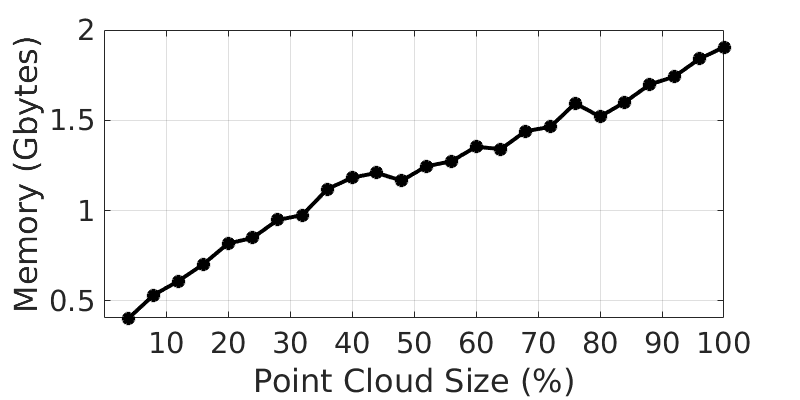
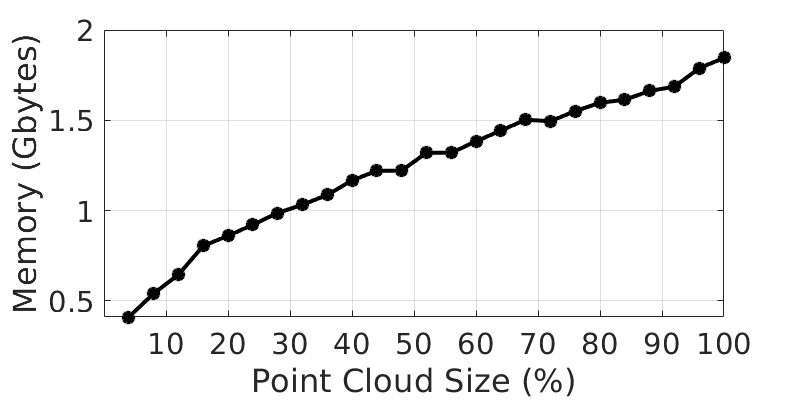
data done for AAAI

diff --git a/Matlab/memory_plot.m b/Matlab/memory_plot.m
@@ -2,32 +2,60 @@
 
 clear, clc
 
-main_dir = '/home/dtc/MyGit/dtc-scannet-sparseconvnet/Result/alienware/scannet_m8_rep1_residualFalse-000000470/Backup/';
+model_name = 'scannet_m16_rep2_residualTrue-000000650';
+
+% avg with memory from pmserver
+f_mem = {
+    'result_memory_1.csv';
+    'result_memory_2.csv';
+    'result_memory_3.csv';
+    'result_memory_4.csv';
+};
+
+main_dir = strcat('../Result/alienware/', model_name, '/Backup/');
 f_random = strcat(main_dir, 'random_result_memory.csv');
 f_grid = strcat(main_dir, 'grid_result_memory.csv');
 f_hierarchy = strcat(main_dir, 'hierarchy_result_memory.csv');
 
 titleName = split(main_dir, '/');
-titleName = titleName{8};
+titleName = titleName{4};
 
 data_random = csvread(f_random, 1, 0);
 keep_ratio_random = data_random(:, 1);
 time_random = data_random(:, 2);
 flop_random = data_random(:, 3);
 memory_random = data_random(:, 4);
+for i = 1:length(f_mem)
+    f_mem_file_name = strcat('../Result/pmserver/', model_name, '/Backup/random_', f_mem{i});
+    data_memory = csvread(f_mem_file_name, 1, 0);
+    memory_random = memory_random + data_memory(:, 4);
+end
+memory_random = memory_random / (1+length(f_mem));
+
 
 data_grid = csvread(f_grid, 1, 0);
 keep_ratio_grid = data_grid(:, 1);
 time_grid = data_grid(:, 2);
 flop_grid = data_grid(:, 3);
 memory_grid = data_grid(:, 4);
+for i = 1:length(f_mem)
+    f_mem_file_name = strcat('../Result/pmserver/', model_name, '/Backup/grid_', f_mem{i});
+    data_memory = csvread(f_mem_file_name, 1, 0);
+    memory_grid = memory_grid + data_memory(:, 4);
+end
+memory_grid = memory_grid / (1+length(f_mem));
 
 data_hierarchy = csvread(f_hierarchy, 1, 0);
 keep_ratio_hierarchy = data_hierarchy(:, 1);
 time_hierarchy = data_hierarchy(:, 2);
 flop_hierarchy = data_hierarchy(:, 3);
 memory_hierarchy = data_hierarchy(:, 4);
-
+for i = 1:length(f_mem)
+    f_mem_file_name = strcat('../Result/pmserver/', model_name, '/Backup/hierarchy_', f_mem{i});
+    data_memory = csvread(f_mem_file_name, 1, 0);
+    memory_hierarchy = memory_hierarchy + data_memory(:, 4);
+end
+memory_hierarchy = memory_hierarchy / (1+length(f_mem));
 
 figure(1), clf, hold on
 set(gcf, 'position', [200, 800, 1200, 800])
@@ -44,16 +72,16 @@ grid on
 
 figure(2), clf, hold on
 set(gcf, 'position', [200, 800, 1200, 800])
-fitobject = fit(keep_ratio_random, memory_random, 'poly2');
-memory_fit = feval(fitobject, keep_ratio_random);
-fprintf('Memory (MB): %.2f\n', memory_fit(end))
+% fitobject = fit(keep_ratio_random, memory_random, 'poly2');
+% memory_fit = feval(fitobject, keep_ratio_random);
+fprintf('Random Memory (MB): %.2f\n', memory_random(end))
 
 plot(keep_ratio_random, memory_random, '-*', 'linewidth', 3)
 plot(keep_ratio_grid, memory_grid, '-o', 'linewidth', 3)
 plot(keep_ratio_hierarchy, memory_hierarchy, '-s', 'linewidth', 3)
-plot(keep_ratio_random, memory_fit, '-*', 'linewidth', 4)
+% plot(keep_ratio_random, memory_fit, '-*', 'linewidth', 4)
 set(gca, 'fontsize', 22)
 ylabel('Memory')
-legend('random', 'grid', 'hierarchy', 'Fitted Line', 'location', 'southeast')
+legend('random', 'grid', 'hierarchy', 'location', 'southeast')
 title(titleName, 'Interpreter', 'none')
 grid on

diff --git a/Matlab/memory_first.m b/Matlab/memory_first.m
@@ -23,9 +23,18 @@ data_simplify = {
 main_dir = '/home/dtc/MyGit/dtc-scannet-sparseconvnet/Result/';
 
 iou_device = 'pmserver';
-time_device = 'alienware';
+memory_device = 'alienware';
 
 result = [];
+
+% avg memory
+% from pmserver
+f_men = {
+    '_result_memory_1.csv';
+    '_result_memory_2.csv';
+    '_result_memory_3.csv';
+    '_result_memory_4.csv';
+};
 
 
 for i_model = 1:length(models)
@@ -33,12 +42,20 @@ for i_model = 1:length(models)
         f_data = strcat(main_dir, iou_device, '/', models{i_model}, '/Backup/', data_simplify{i_simplify}, '_result_main.csv');
         data = csvread(f_data, 1, 0);
         iou = data(:, 3);
-        f_data = strcat(main_dir, time_device, '/', models{i_model}, '/Backup/', data_simplify{i_simplify}, '_result_memory.csv');
+        f_data = strcat(main_dir, memory_device, '/', models{i_model}, '/Backup/', data_simplify{i_simplify}, '_result_memory.csv');
         data = csvread(f_data, 1, 0);
         keep_ratio = data(:, 1);
         memory = data(:, 4);
-        fitobject = fit(keep_ratio, memory, 'poly2');
-        memory = feval(fitobject, keep_ratio);
+        
+        for i_mem_avg = 1:length(f_men)
+           f_mem_avg =  strcat('../Result/pmserver/', models{i_model}, '/Backup/', data_simplify{i_simplify}, f_men{i_mem_avg});
+           data_memory_avg = csvread(f_mem_avg, 1, 0);
+           memory = memory + data_memory_avg(:, 4);
+        end
+        memory = memory / (1+length(f_men));
+        
+        % fitobject = fit(keep_ratio, memory, 'poly2');
+        % memory = feval(fitobject, keep_ratio);
     
         if length(iou) ~= length(memory)
             error('length does not match')

diff --git a/Matlab/random_result.m b/Matlab/random_result.m
@@ -4,6 +4,14 @@ clear, clc
 f_main = '../Result/pmserver/scannet_m16_rep2_residualTrue-000000650/Backup/random_result_main.csv';
 f_memory = '../Result/alienware/scannet_m16_rep2_residualTrue-000000650/Backup/random_result_memory.csv';
 
+% avg memory
+f_men = {
+    '../Result/pmserver/scannet_m16_rep2_residualTrue-000000650/Backup/random_result_memory_1.csv';
+    '../Result/pmserver/scannet_m16_rep2_residualTrue-000000650/Backup/random_result_memory_2.csv';
+    '../Result/pmserver/scannet_m16_rep2_residualTrue-000000650/Backup/random_result_memory_3.csv';
+    '../Result/pmserver/scannet_m16_rep2_residualTrue-000000650/Backup/random_result_memory_4.csv';
+};
+
 
 data_main = csvread(f_main, 1, 0);
 keep_ratio_main = data_main(:, 1);
@@ -18,6 +26,13 @@ keep_ratio_memory = data_memory(:, 1);
 inference_time_memory = data_memory(:, 2);
 flop_memory = data_memory(:, 3);
 memory_memory = data_memory(:, 4);
+
+% average memory
+for i = 1:length(f_men)
+    data_memory = csvread(f_men{i}, 1, 0);
+    memory_memory = memory_memory + data_memory(:, 4);
+end
+memory_memory = memory_memory / (1+length(f_men));
 
 % average IOU
 figure(1),clf

diff --git a/README.md b/README.md
@@ -187,14 +187,14 @@ Pre-trained models are under `Model/`. Naming: `scannet_m{}_rep{}_residual{}_000
 
 Index | m | rep | residual | epoch | #parameters | batch size | FLOPs | Memory (GB) | Time (s) | IOU (%)
 :---: | :---: | :---: | :---: | :---: | :---: | :---: | :---: | :---: | :---: | :---:
-1 | 8 | 1 | False | 470 | 673836 | 8 | 2.59 x 10^{9} | 0.61 | 0.63 | 63.29
-2 | 8 | 2 | False  | 560 | 1073788 | 8 | 4.15 x 10^{9} | 0.71 | 0.78 | 65.15
+1 | 8 | 1 | False | 470 | 673836 | 8 | 2.59 x 10^{9} | 0.59 | 0.63 | 63.29
+2 | 8 | 2 | False  | 560 | 1073788 | 8 | 4.15 x 10^{9} | 0.74 | 0.78 | 65.15
 3 | 8 | 1 | True | 630 | 1085436 | 8 | - | - | - | 67.54
-4 | 8 | 2 | True | 530 | 1885340 | 8 | 7.44 x 10^{9} | 1.04 | 1.13 | 68.52
-5 | 16 | 1 | False | 530 | 2689860 | 8 | 1.03 x 10^{10} | 0.86 | 0.87 | 67.11
-6 | 16 | 2 | False | 570 | 4288100 | 8 | 1.66 x 10^{10} | 1.10 | 1.16 | 68.79
+4 | 8 | 2 | True | 530 | 1885340 | 8 | 7.44 x 10^{9} | 1.06 | 1.13 | 68.52
+5 | 16 | 1 | False | 530 | 2689860 | 8 | 1.03 x 10^{10} | 0.84 | 0.87 | 67.11
+6 | 16 | 2 | False | 570 | 4288100 | 8 | 1.66 x 10^{10} | 1.12| 1.16 | 68.79
 7 | 16 | 1 | True | 500 | 4334692 | 8 | - | - | - | 68.72
-8 | 16 | 2 | True | 650 | 7531172 | 8 | 2.97 x 10^{10} | 1.82 | 1.81 | 69.79 
+8 | 16 | 2 | True | 650 | 7531172 | 8 | 2.97 x 10^{10} | 1.85 | 1.81 | 69.79 
 
 ## Folder Structure
 *   `Cpp`. C++ program for data simplification
